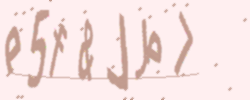
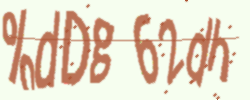
[FIX] Update & Change Captcha

diff --git a/captcha_sample/ex_captcha.py b/captcha_sample/ex_captcha.py
@@ -2,33 +2,57 @@
 import random
 import io
 import base64
+import string
 from captcha.image import ImageCaptcha
+from captcha.audio import AudioCaptcha
 
 
-class MakeCaptcha:
+def _random_code(length=8, captcha_type=None):
+    """
+    Random Code Generate
+    :param length: Default Length 8
+    :captcha_type: None, audio
+    :return:
+    """
+    custom_punctuation = '#%&?$'
+    custom_lowercase = 'abdefghjqrt'
+    custom_uppercase = 'ABDEFGHJLQRT'
+    custom_digits = '2345678'
+    if captcha_type == 'audio':
+        return "".join(random.choice(string.digits) for _ in range(length))
+    allowed_code = custom_digits + custom_uppercase + custom_lowercase + custom_punctuation
+    return "".join(random.choice(allowed_code) for _ in range(length))
+
+
+class MakeCaptchaAudio:
+    def __init__(self):
+        self.audio = AudioCaptcha()
+        self.captcha_text = _random_code(captcha_type="audio")
+        self.ret = ""
+
+    def set_save_audio_file(self) -> bool:
+        """
+        Set Captcha Audio File Save(File Type : WAV)
+        :return:
+        """
+        try:
+            self.audio.write(self.captcha_text, f'sample/output.wav')
+            return True
+        except Exception as err:
+            return False
+
+
+class MakeCaptchaImg:
     def __init__(self):
         self.width: int = 250
         self.height: int = 100
         self.font_sizes: tuple = (50, 58, 64)
         self.image = ImageCaptcha(self.width, self.height, font_sizes=self.font_sizes)
-        self.captcha_text = self.__random_code()
+        self.audio = AudioCaptcha()
+        self.captcha_text = _random_code()
         self.ret = ""
 
-    @staticmethod
-    def __random_code(length=8):
-        """
-        Random Code Generate
-        :param length: Default Length 8
-        :return:
-        """
-        custom_punctuation = '#%&?$'
-        custom_lowercase = 'abdefghjqrt'
-        custom_uppercase = 'ABDEFGHJLQRT'
-        custom_digits = '2345678'
-        allowed_code = custom_digits + custom_uppercase + custom_lowercase + custom_punctuation
-        return "".join(random.choice(allowed_code) for _ in range(length))
-
-    def captcha_valid(self, text):
+    def captcha_valid(self, text) -> bool:
         """
         Captcha Valid
         :param text:
@@ -48,18 +72,28 @@ class MakeCaptcha:
             "utf-8")
         return image_data_b64
 
-    def set_save_image_file(self):
+    def set_save_image_file(self) -> bool:
         """
         Set Captcha Image File Save(File Type : PNG)
         :return:
         """
-        self.image.write(self.captcha_text, f'sample/output.png')
+        try:
+            self.image.write(self.captcha_text, f'sample/output.png')
+            return True
+        except Exception as err:
+            return False
 
 
 if __name__ == "__main__":
-    captcha = MakeCaptcha()
-    print(captcha.captcha_text)
-    print(captcha.get_base64_image_data())
-    captcha.set_save_image_file()
-    print(captcha.captcha_valid(captcha.captcha_text))
-    print(captcha.captcha_valid('1234'))
+    # CAPTCHA Audio
+    captcha_audio = MakeCaptchaAudio()
+    print(f'CAPTCHA Text: {captcha_audio.captcha_text}')
+    print(f'Save Audio: {captcha_audio.set_save_audio_file()}')
+
+    # CAPTCHA Image
+    captcha_img = MakeCaptchaImg()
+    print(f'CAPTCHA Text: {captcha_img.captcha_text}')
+    print(f'Base64 Image: {captcha_img.get_base64_image_data()}')
+    print(f'Save Image: {captcha_img.set_save_image_file()}')
+    print(f'CAPTCHA Valid: {captcha_img.captcha_valid(captcha_img.captcha_text)}')
+    print(f'CAPTCHA Valid: {captcha_img.captcha_valid("1234")}')

diff --git a/captcha_sample/ex_captcha_audio.py b/captcha_sample/ex_captcha_audio.py
@@ -1,6 +1,4 @@
 # -*- coding: utf-8 -*-
-import io
-import base64
 from captcha.audio import AudioCaptcha
 
 audio = AudioCaptcha()
